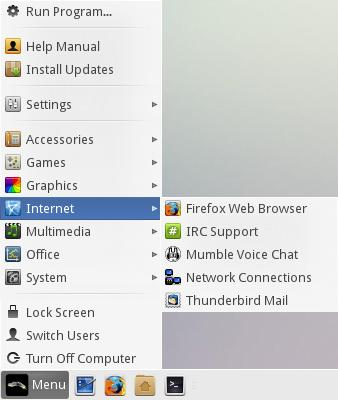
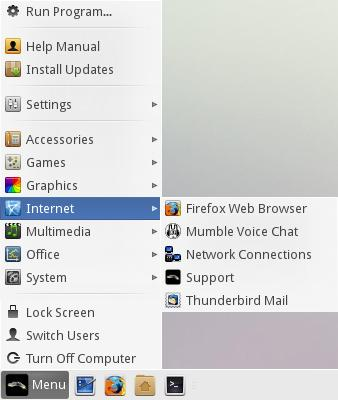
litemanual

Changed region(s): [[0.4734, 0.54, 0.9172, 0.72]]

diff --git a/usr/share/doc/litemanual/index.html b/usr/share/doc/litemanual/index.html
@@ -32,7 +32,7 @@
 						<td valign="top">&nbsp;</td>
 						<td style="text-align: right" valign="top">
 						<p style="text-align: right"><b>Version:</b> 2.0 | <b>Date:</b> 
-						25th May, 2014 | <b>Authors:</b> Bill Hahnen, Adam 
+						28th May, 2014 | <b>Authors:</b> Bill Hahnen, Adam 
 						Grubbs, John Jenkins, Jerry Bezencon<br />
 						<strong>New Additions:</strong> Updated 
 						<a href="install.html#themes">Themes and Icons</a> 
@@ -123,17 +123,11 @@ best to choose the <b>recommended</b> driver. You can look through how to
 				configuration details.</p>
 				<p>
 				<img border="0" src="img/home/mumble.png"></p>
-				<p><b><font size="4">IRC:</font></b></p>
-				<p>When you launch <b>Menu, Internet</b>, <b>IRC Support</b> 
-				this will automatically connect you to the Linux Lite online 
-				support channel. When you enter please leave your question in 
-				the channel, then wait for a reply. Please try to keep in mind 
-				that our team is from a variety of timezones so it may take a 
-				while before you get a reply. We thank you for your patience.</p>
-				<p>For people who prefer to use their own IRC client, the 
-				connection details are below:</p>
-				<p><b>Server:</b> irc.freenode.net/8001<br>
-				<b>Channel:</b> #linuxlite</p>
+				<p><b><font size="4">Support:</font></b></p>
+				<p>When you launch <b>Menu, Internet</b>, <b>Support</b> 
+				this will automatically connect you to the Linux Lite
+				<a href="http://www.linuxliteos.com/forums/" target="_blank">
+				Forums</a>.</p>
 				<p><font size="4"><b>Social Networks:</b></font></p>
 				<p><b>Facebook:</b>
 				<a target="_blank" href="https://www.facebook.com/pages/Linuxlite/572323192787066">
@@ -230,8 +224,10 @@ best to choose the <b>recommended</b> driver. You can look through how to
 				<b>
 				<a target="_blank" href="http://www.mozilla.org/en-US/firefox/new/">Firefox Web Browser</a></b> - 
 				Browse the internet.<br />
-				<strong>IRC Support</strong> - (Internet Relay Chat) Get Support 
-				24/7 from our live chat room.<br>
+				<strong>Support</strong> - Get Support 
+				at the Linux Lite
+				<a href="http://www.linuxliteos.com/forums/" target="_blank">
+				Forums</a>.<br>
 				<b><a target="_blank" href="http://mumble.sourceforge.net/FAQ">Mumble Voice Chat</a></b> - 
 				A voice chat program similar to Teamspeak and Ventrilo.<br />
 				<b>Network Connections</b> - Manage and connect to wired, wireless, 
